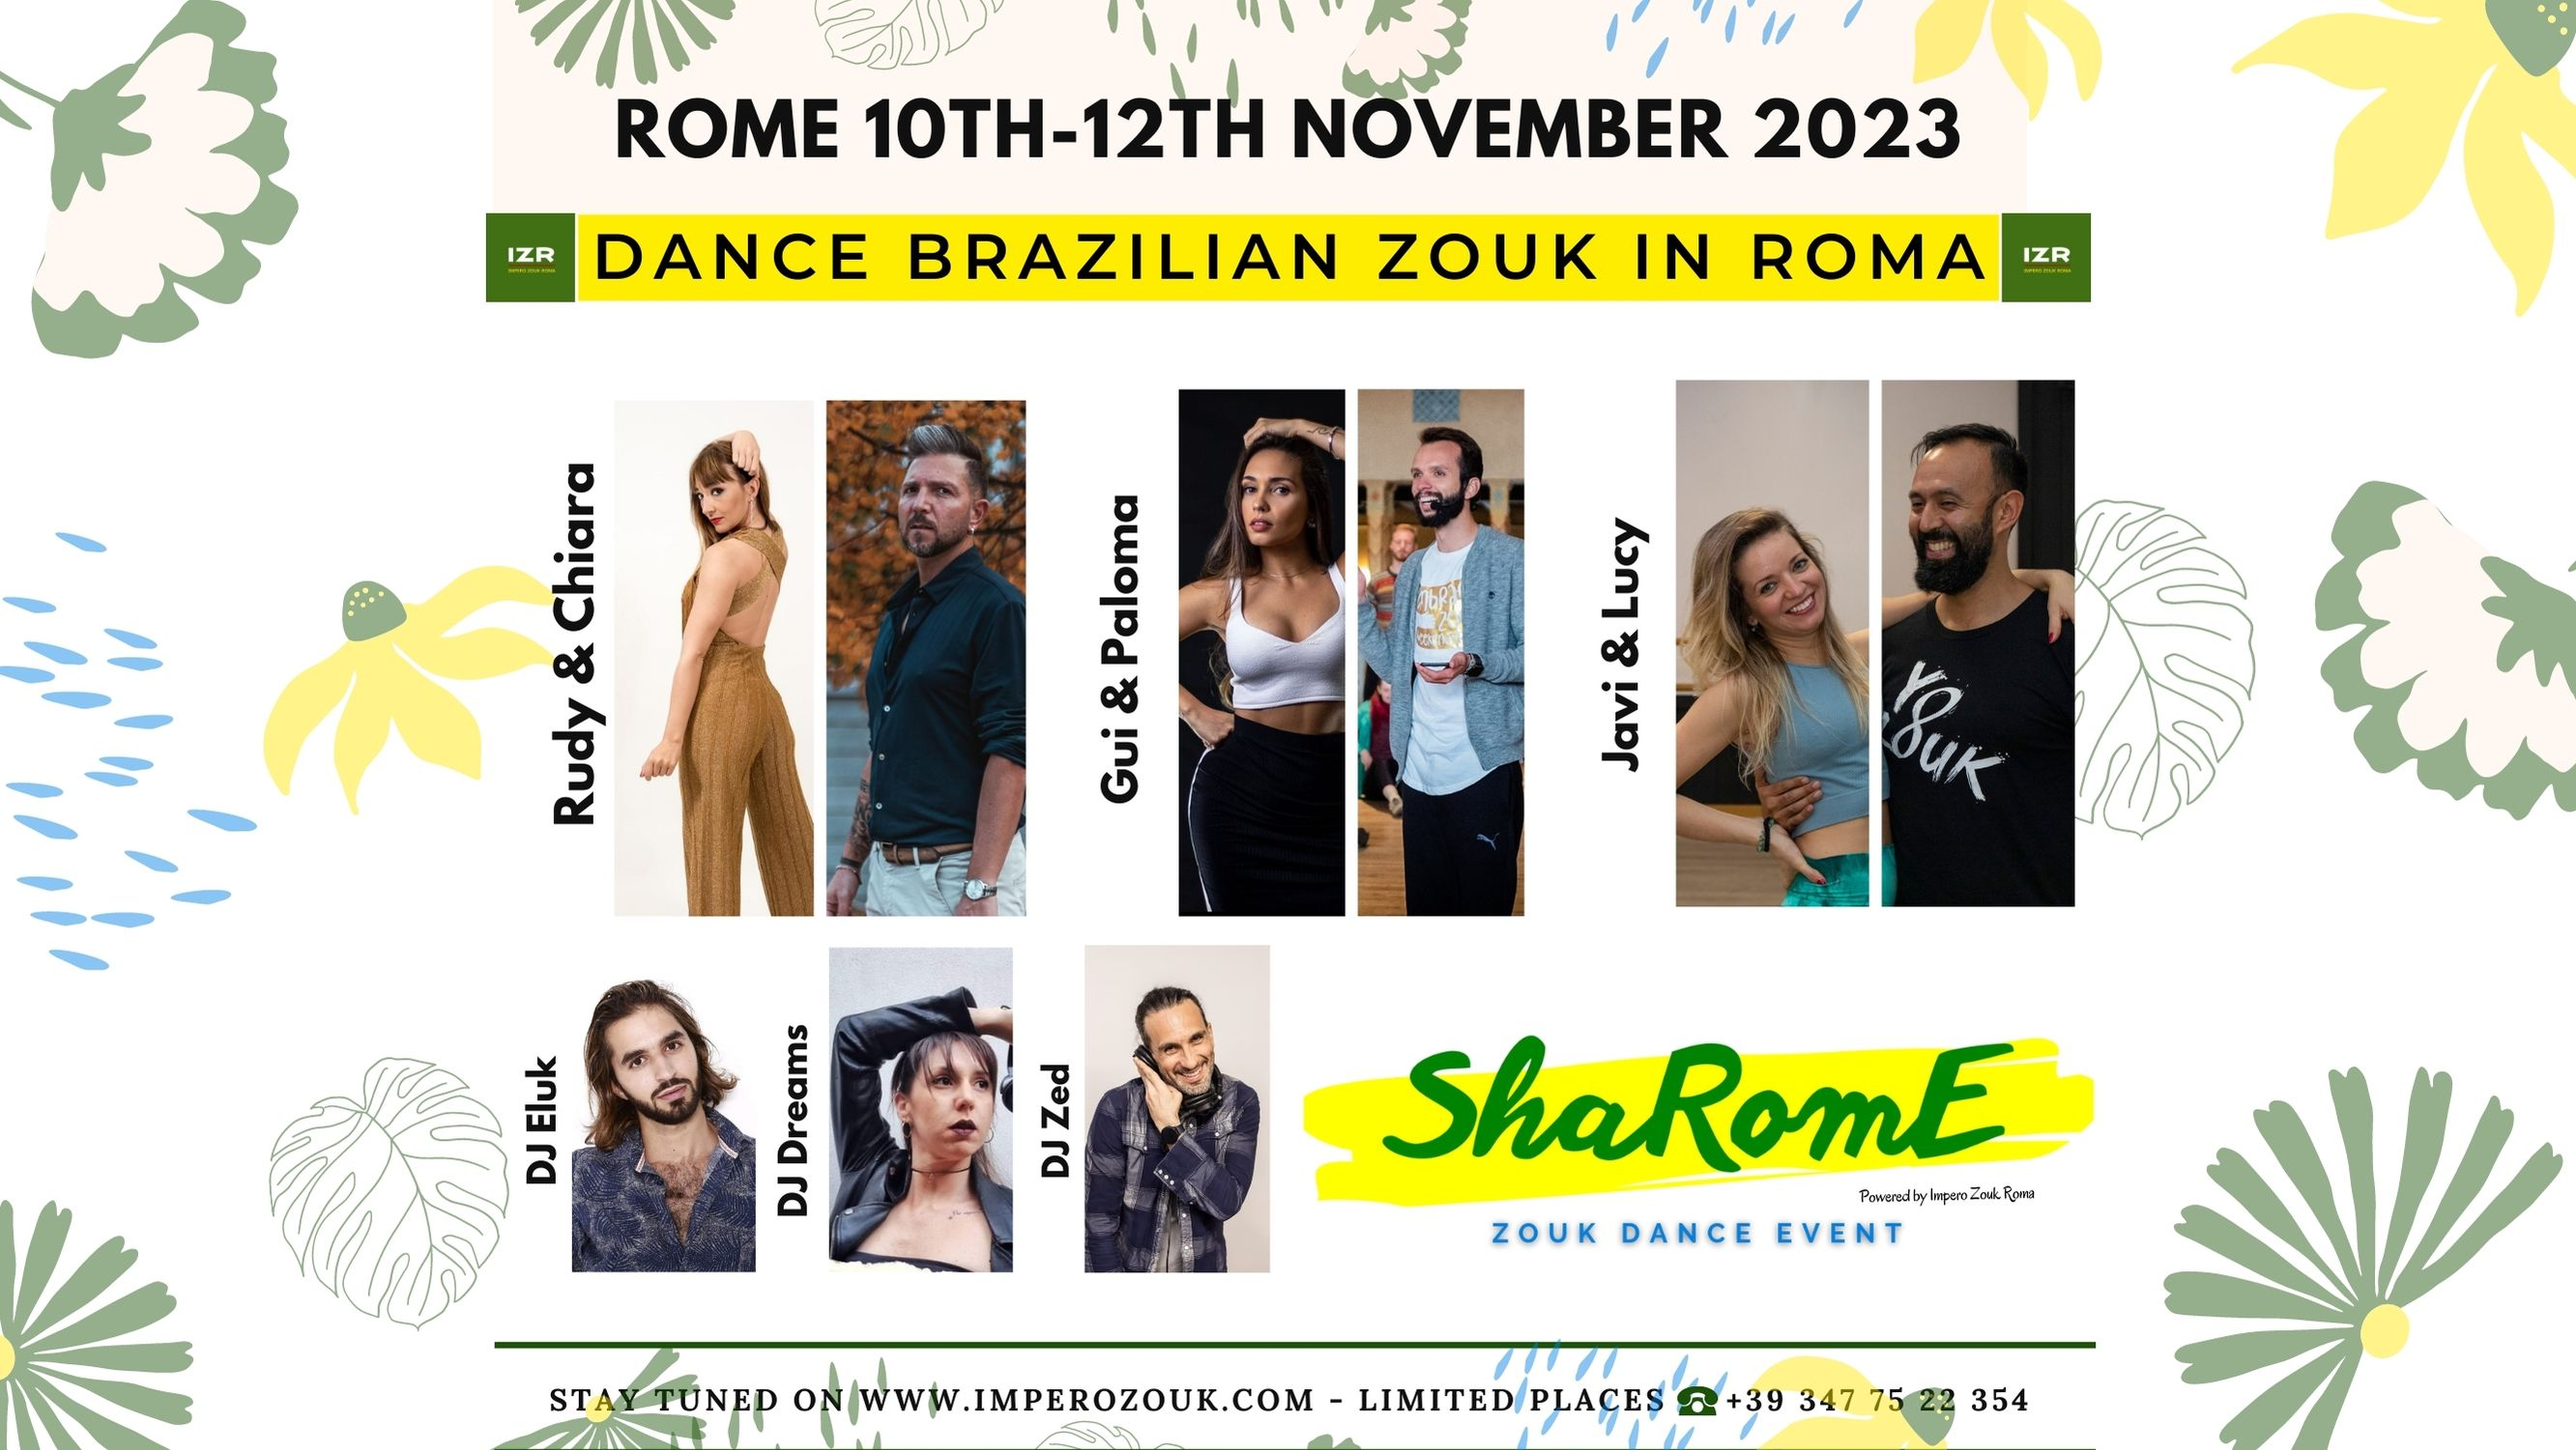
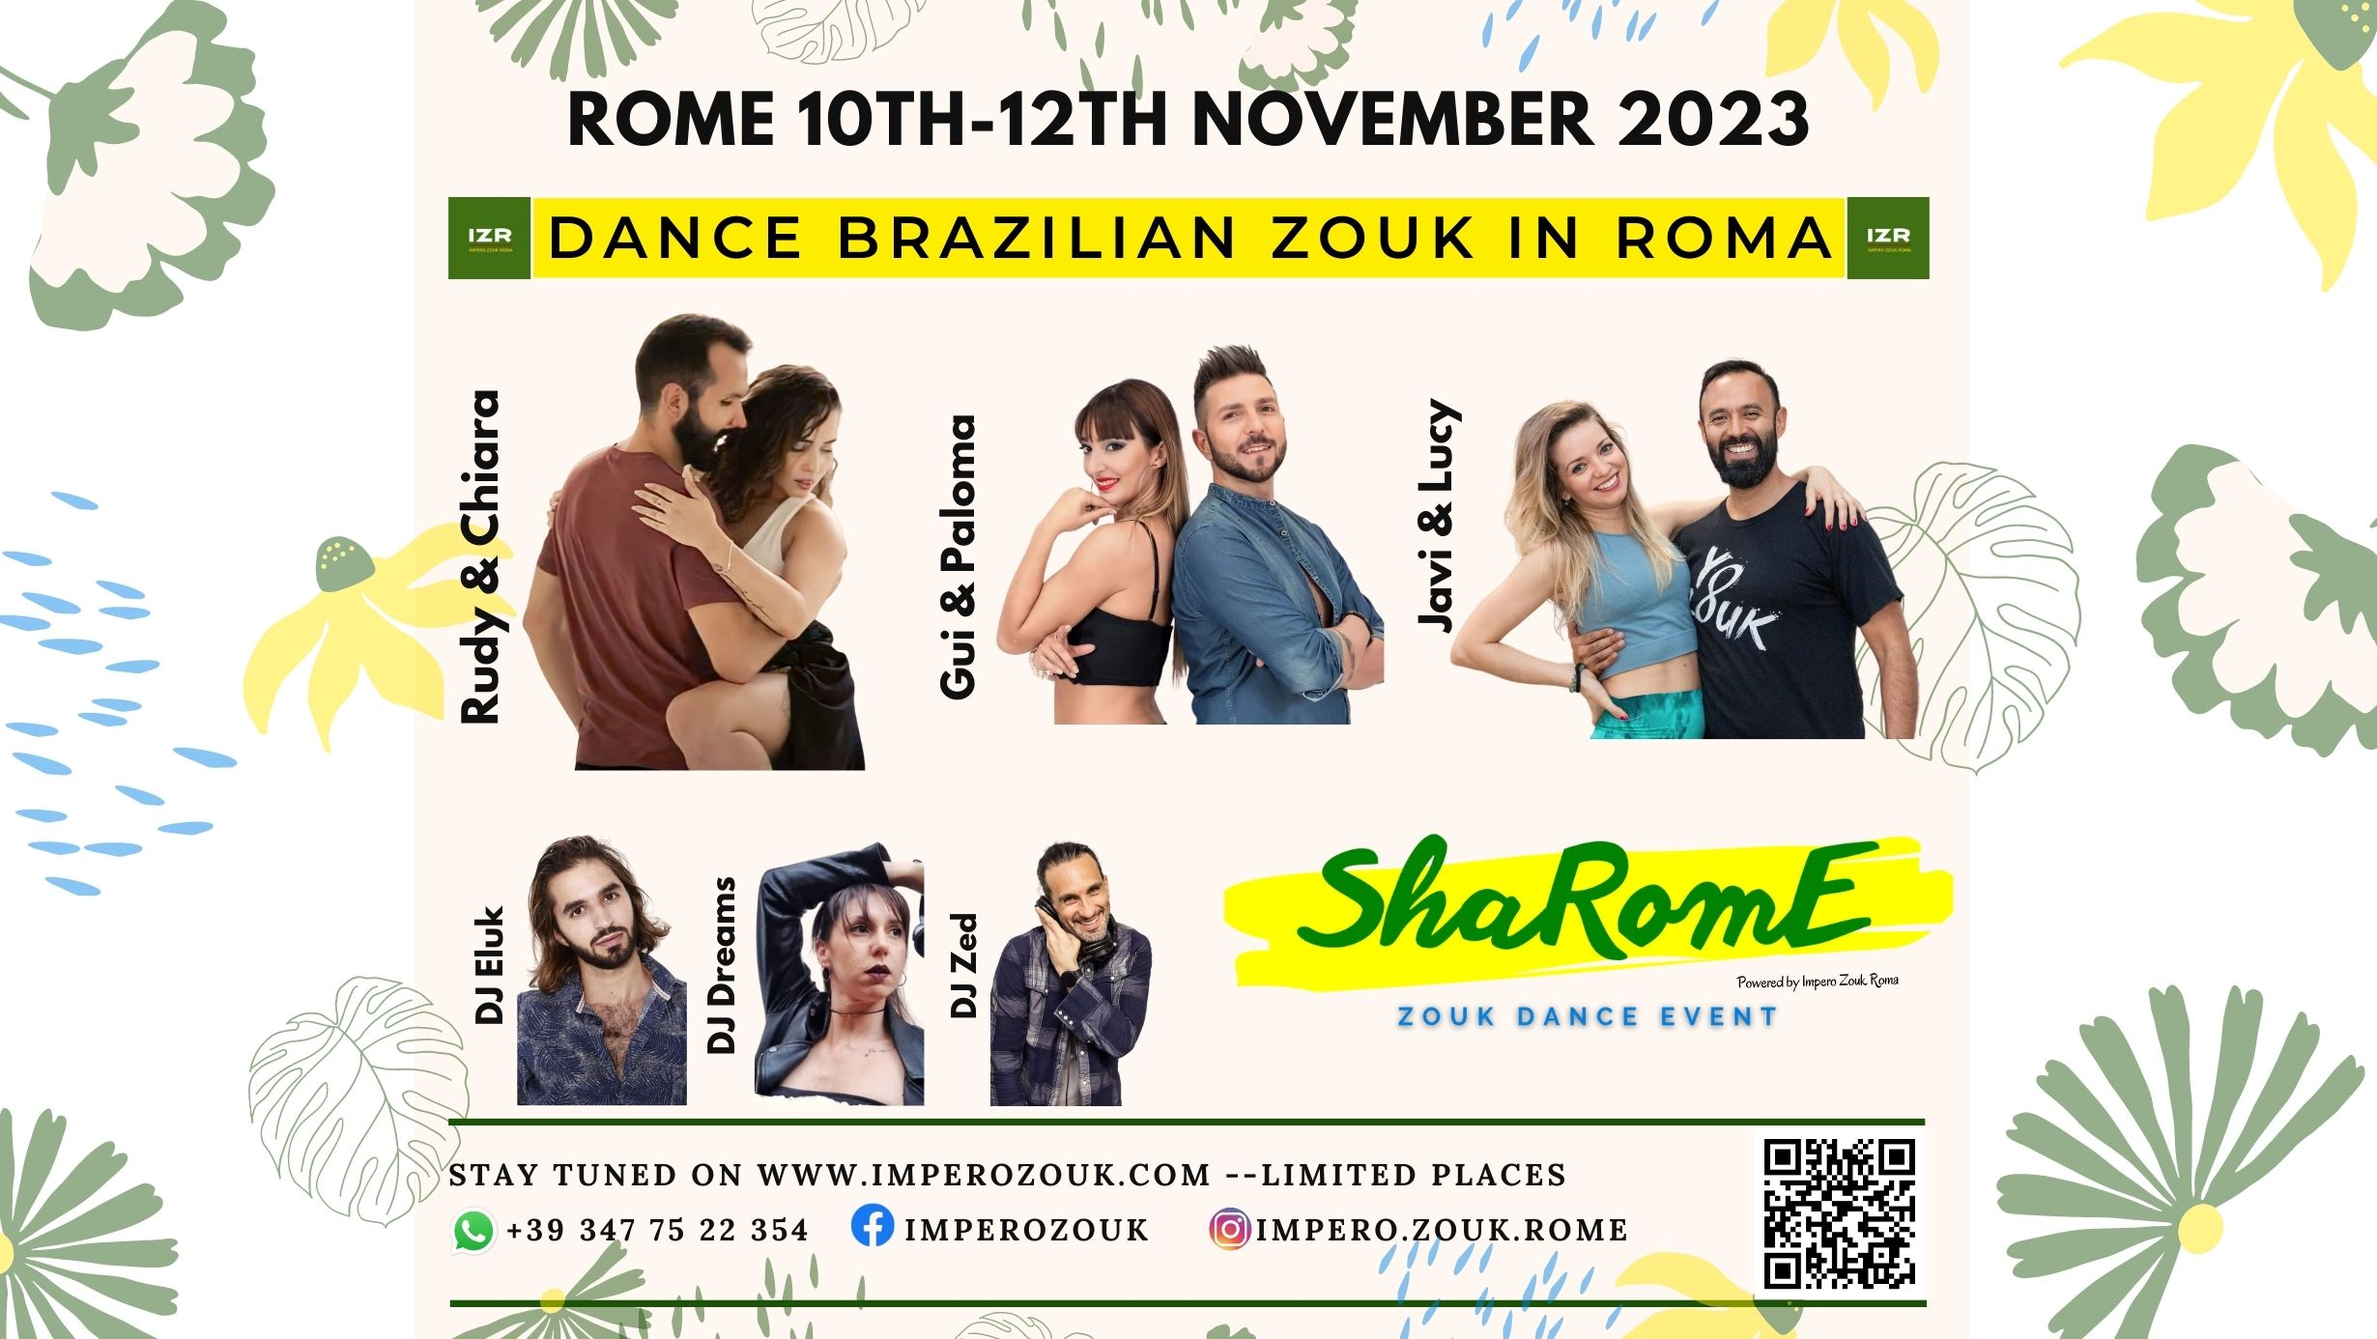
updated flyer sharome and updated link to workshop with Aline

diff --git a/it/index.html b/it/index.html
@@ -128,7 +128,7 @@ Il nostro istruttore locale, Javier Concha, è un <a href="https://alexdecarvalh
 								<section>
 									<header>
 										<h3>Guest Instructors</h3>
-										<p>Organizziamo workshops speciali e weekeners con artisti locali e internazionali. Alcuni degli artisti che hanno insegnato per noi sono The Ramalhos, Charles Espinoza ed Emma Housner, Anna Steklova, e Natalia Pcholkina, Lucy Kafková, Iago e Ninna. Il nostro prossimo evento è: <a href="https://facebook.com/events/s/larissa-secco-a-roma/6348107075273596/">Larissa Secco a Roma, sabato 24 giugno 2023.</a>
+										<p>Organizziamo workshops speciali e weekeners con artisti locali e internazionali. Alcuni degli artisti che hanno insegnato per noi sono The Ramalhos, Charles Espinoza ed Emma Housner, Anna Steklova, e Natalia Pcholkina, Lucy Kafková, Iago e Ninna. Il nostro prossimo evento è: <a href="https://fb.me/e/USuYjHRS">Aline e Rafael a Roma, sabato 29 luglio 2023.</a>
 								
 										</p>
 									</header>

diff --git a/sharome.html b/sharome.html
@@ -80,7 +80,7 @@
 									</header>
 									<div class="content">
 										<div class="gallery">
-											<a href="images/gallery/fulls/Locandina_Sharome_2023.jpg" class="landscape"><img src="images/gallery/thumbs/Locandina_Sharome_2023_thumb.jpeg" alt="" /></a>
+											<a href="images/gallery/fulls/Locandina_Sharome_2023.jpg" class="landscape"><img src="images/gallery/thumbs/Locandina_Sharome_2023_thumb.jpg" alt="" /></a>
 											<!-- <a href="images/gallery/fulls/02.jpg"><img src="images/gallery/thumbs/02.jpg" alt="" /></a>
 											<a href="images/gallery/fulls/03.jpg"><img src="images/gallery/thumbs/03.jpg" alt="" /></a>
 											<a href="images/gallery/fulls/04.jpg" class="landscape"><img src="images/gallery/thumbs/04.jpg" alt="" /></a> -->

diff --git a/index.html b/index.html
@@ -131,7 +131,7 @@ Our local instructor, Javier Concha, is a <a href="https://alexdecarvalho.com.br
 										<p> <strong>We organise special workshops and weekeners </strong> with local and international artists. 
 
 Some of the artists that have been teaching for us are The Ramalho siblings, Charles Espinoza and Emma Housner, Anna Steklova, and Natalia Pcholkina, Celine and Clement, Anna Russa, and Iago e Ninna. Our next event is:
-						<a href="https://facebook.com/events/s/larissa-secco-a-roma/6348107075273596/">Larissa Secco in Roma, Saturday June 24, 2023.</a>
+						<a href="https://fb.me/e/USuYjHRS/">Aline and Rafael in Roma, Saturday July 29, 2023.</a>
 </p>
 									</header>
 									<div class="content">
